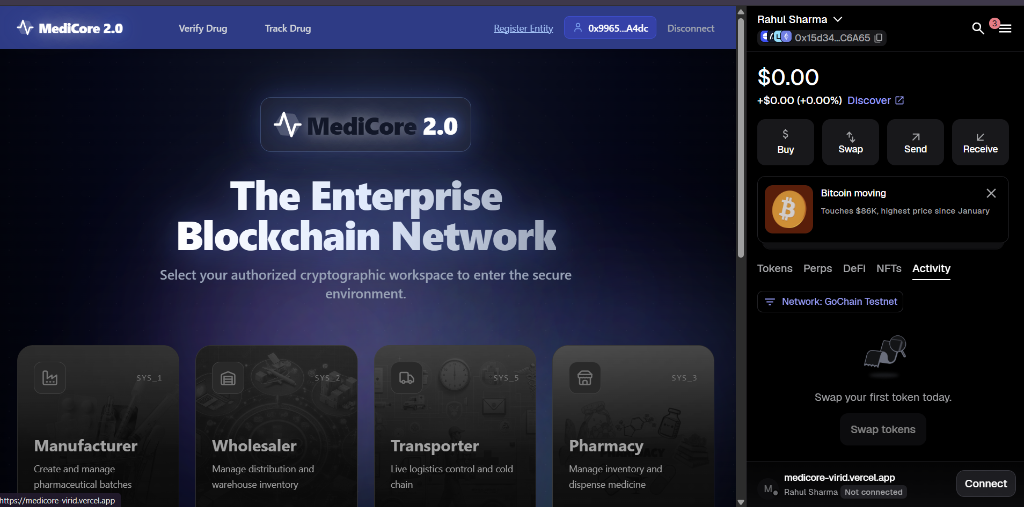
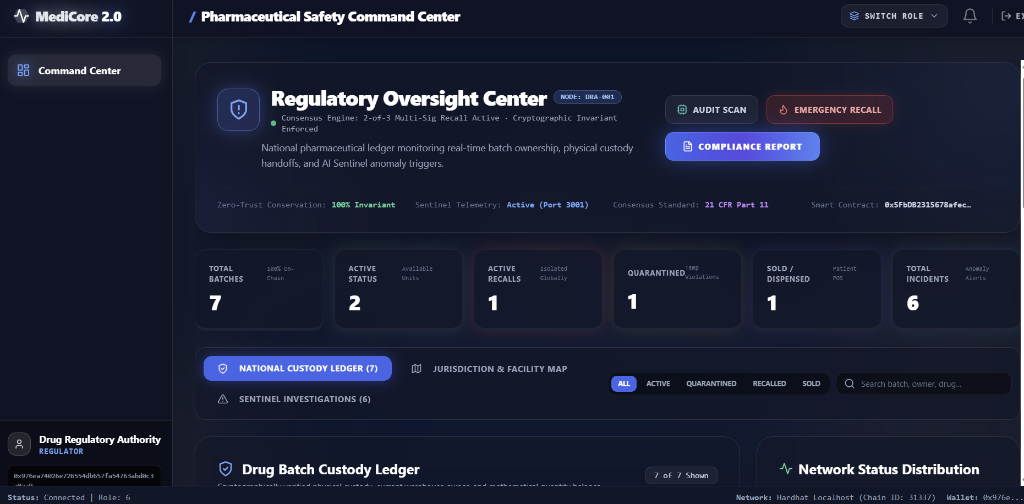
docs: update regulator, cold chain, and pharmacy screenshots with live operational views

diff --git a/README.md b/README.md
@@ -177,6 +177,8 @@ MEDICORE features 8 dedicated command centers tailored to each stakeholder in th
 
 <div align="center">
   <img src="docs/screenshots/05_quality_control_center.png" alt="Quality Officer Dashboard" width="95%"/>
+  <br/><br/>
+  <img src="docs/screenshots/05_quality_certification_modal.png" alt="Batch QC Inspection & Certification Modal" width="95%"/>
 </div>
 
 - **Inspection Queue**: Real-time review of freshly minted batches awaiting regulatory approval.
@@ -189,6 +191,8 @@ MEDICORE features 8 dedicated command centers tailored to each stakeholder in th
 
 <div align="center">
   <img src="docs/screenshots/06_regulator_command_center.png" alt="Regulator Command Center" width="95%"/>
+  <br/><br/>
+  <img src="docs/screenshots/06_regulator_custody_ledger.png" alt="National Custody Ledger & Anomaly Detection" width="95%"/>
 </div>
 
 - **Sentinel Incident Feed**: Real-time logging of suspicious QR brute-force attempts and route deviations.
